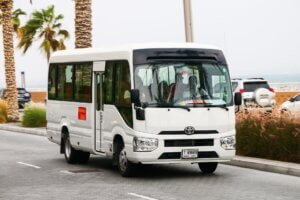
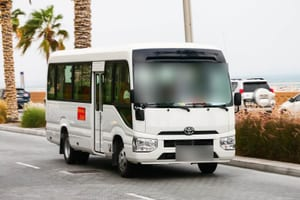
Give the staff transport page a real hero
The theme's inner banner carried a label and a heading and nothing else, so
someone arriving from a search for "staff transport dubai" spent the whole
first screen on the words "Services / For Staff": no H1, no proof, nothing to
act on. The same two words then appeared again immediately below it, with the
real H1 underneath those.

The hero now does the work: one H1, a subline, three proof points and both
contact actions, with the Coaster photo beside them. It stays dark because
#masthead is absolutely positioned over whatever renders first and its links
are white, so a light hero here would hide the navigation.

Measured against the brief on the built pages: at 390x844 the H1 ends at 223px
and the two buttons at 494px and 552px; at 1440x900 the H1 ends at 326px and
both buttons at 600px. The photograph follows the actions on mobile rather
than pushing them down.

The photo also moved out of the intro row and into the hero, which left the
intro full width, and the duplicate "Services" and "For Staff" headings are
gone. The old H1 is now the section's h2, so the page has exactly one H1.

Blurring the plate on this vehicle had missed two sizes: the 768x512 and
300x200 derivatives still showed it in full, and 768 is the one phones load.
Both are regenerated from the 1600x1067 original, which already carries the
cover and shares their aspect ratio.

Titles, meta descriptions, canonicals and JSON-LD are untouched, the buttons
[…]

diff --git a/app/src/pages/SvcStaffTransportInDubai.jsx b/app/src/pages/SvcStaffTransportInDubai.jsx
@@ -14,16 +14,33 @@ export default function SvcStaffTransportInDubai() {
   return (
     <>
       <Seo {...seo["/services/staff-transport-in-dubai/"]} />
-      <section className="banner_home banner_inner banner_inner_services" style={{ backgroundImage: "url('/wp-content/uploads/2025/10/banner_bg.webp')" }}>
-      <div className="banner_shadow"></div>
-      <div className="container h-100">
-      <div className="row h-100 justify-content-center">
-      <div className="col-xl-6 my-auto">
-      <div className="content_banner text-center">
-      <span className="h1_head">Services</span>
-      <h2>For Staff</h2>
+      <section className="svc_hero" style={{ backgroundImage: "url('/wp-content/uploads/2025/10/banner_bg.webp')" }}>
+      <div className="container">
+      <div className="svc_hero__grid">
+
+      <div className="svc_hero__copy">
+      <nav className="svc_hero__crumb" aria-label="Breadcrumb">
+      <Link to="/services/">Services</Link>
+      <span aria-hidden="true">/</span>
+      <span>Staff Transport</span>
+      </nav>
+      <h1>Staff Transport in Dubai, On Time for Every Shift</h1>
+      <p className="svc_hero__sub">Fixed daily routes for offices, labour camps, hotels and warehouses. Licensed drivers, vehicles sized to your headcount, 24/7 across all 7 emirates.</p>
+      <ul className="svc_hero__points">
+      <li>RTA-licensed drivers</li>
+      <li>Routes planned around your shift times</li>
+      <li>One contact for the whole contract</li>
+      </ul>
+      <div className="svc_hero__actions">
+      <a href={waLink("/services/staff-transport-in-dubai/")} className="btn btn-primary" target="_blank" rel="noopener">Get a Quote on WhatsApp</a>
+      <a href="tel:+971555252397" className="btn btn-secondary">Call +971 55 525 2397</a>
       </div>
       </div>
+
+      <div className="svc_hero__media">
+      <img src="/wp-content/uploads/2025/10/staff-transport-op-1024x683.jpg" width="1024" height="683" alt="Toyota Coaster passenger bus used for staff transport in Dubai" fetchPriority="high" decoding="async" srcSet="/wp-content/uploads/2025/10/staff-transport-op-768x512.jpg 768w, /wp-content/uploads/2025/10/staff-transport-op-1024x683.jpg 1024w, /wp-content/uploads/2025/10/staff-transport-op-1536x1024.jpg 1536w" sizes="(max-width: 991px) 100vw, 44vw" />
+      </div>
+
       </div>
       </div>
       </section>
@@ -33,16 +50,9 @@ export default function SvcStaffTransportInDubai() {
       <div className="container">
       <div className="row">
 
-      <div className="col-lg-6">
-      <div className="post-thumbnail service_thumbnail">
-      <img width="640" height="427" src="/wp-content/uploads/2025/10/staff-transport-op-1024x683.jpg" className="attachment-large size-large wp-post-image" alt="Toyota Coaster passenger bus used for professional transport services in Dubai by Alsinan Transport" decoding="async" srcSet="/wp-content/uploads/2025/10/staff-transport-op-1024x683.jpg 1024w, /wp-content/uploads/2025/10/staff-transport-op-300x200.jpg 300w, /wp-content/uploads/2025/10/staff-transport-op-768x512.jpg 768w, /wp-content/uploads/2025/10/staff-transport-op-1536x1024.jpg 1536w, /wp-content/uploads/2025/10/staff-transport-op.webp 1920w" sizes="(max-width: 640px) 100vw, 640px" />          </div>
-      </div>
-
-      <div className="col-lg-6 my-auto">
+      <div className="col-lg-12">
       <div className="post-content service_content">
-      <h3>Services</h3>
-      <h2>For Staff</h2>
-      <h1 className="wp-block-heading"><strong><strong><strong>Dependable Staff Transport in Dubai</strong></strong></strong></h1>
+      <h2 className="wp-block-heading"><strong>Dependable Staff Transport in Dubai</strong></h2>
       <p>Alsinan Transport provides staff transport, employee transport and corporate transport in Dubai on fixed daily routes, with licensed drivers and vehicles sized to your headcount. We operate 24/7 across all seven emirates.</p>
       <p>Getting your employees to work on time should not feel like a daily struggle. At Alsinan Transport, we organise staff transport in Dubai in a way that keeps it safe, reliable and easy to manage. Whether it is daily office commuting, regular inter office movement, team travel for training sessions, corporate events or planned outings, we build transport plans that match how your company actually operates.</p>
       <p>If you need flexible van rental in Dubai for a small team or a structured corporate transport in Dubai for multiple departments, our focus remains simple. Your employees travel comfortably, reach safely and arrive on time. When commuting is managed properly, staff can focus on what truly matters, which is their work.</p>

diff --git a/app/public/assets/css/spa-fixes.css b/app/public/assets/css/spa-fixes.css
@@ -1370,3 +1370,206 @@ section.banner_home.banner_inner.banner_contact {
 .about_panel--no-media .about_panel__facts > div > span:empty {
   display: none;
 }
+
+/* ---------------------------------------------------------------------------
+   Service page hero, first used on /services/staff-transport-in-dubai/.
+
+   The theme's inner banner carries a label and a heading and nothing else, so
+   a visitor arriving from a search for "staff transport dubai" saw the words
+   "Services / For Staff" on the whole first screen: no H1, no proof, nothing
+   to act on. The same two words then appeared again immediately below, and the
+   real H1 sat under those.
+
+   This replaces it with a hero that does the work: one H1, a subline, three
+   proof points and both contact actions, with the vehicle photo beside them.
+
+   It stays dark. #masthead is position:absolute over whatever renders first
+   and its links are white, so a light hero here would hide the navigation.
+   --------------------------------------------------------------------------- */
+.svc_hero {
+  position: relative;
+  background-color: #141417;
+  background-position: center;
+  background-size: cover;
+  background-repeat: no-repeat;
+  padding: 186px 0 66px;
+  overflow: hidden;
+}
+
+/* the banner photograph is busy; the copy needs a floor to sit on */
+.svc_hero::before {
+  content: "";
+  position: absolute;
+  inset: 0;
+  background: linear-gradient(
+    90deg,
+    rgba(14, 14, 17, 0.94) 0%,
+    rgba(14, 14, 17, 0.84) 48%,
+    rgba(14, 14, 17, 0.62) 100%
+  );
+}
+
+.svc_hero > .container {
+  position: relative;
+  z-index: 1;
+}
+
+.svc_hero__grid {
+  display: grid;
+  grid-template-columns: 1fr 0.84fr;
+  gap: 48px;
+  align-items: center;
+}
+
+.svc_hero__crumb {
+  display: flex;
+  align-items: center;
+  gap: 8px;
+  margin-bottom: 15px;
+  font-size: 13px;
+  letter-spacing: 0.05em;
+  text-transform: uppercase;
+  color: rgba(255, 255, 255, 0.58);
+}
+
+.svc_hero__crumb a {
+  color: rgba(255, 255, 255, 0.58);
+  text-decoration: none;
+}
+
+.svc_hero__crumb a:hover,
+.svc_hero__crumb a:focus-visible {
+  color: #fff;
+}
+
+.svc_hero h1 {
+  margin: 0 0 15px;
+  color: #fff;
+  font-size: clamp(29px, 3.6vw, 46px);
+  line-height: 1.15;
+  font-weight: 700;
+}
+
+.svc_hero__sub {
+  margin: 0 0 22px;
+  max-width: 34rem;
+  color: rgba(255, 255, 255, 0.82);
+  font-size: 16px;
+  line-height: 1.62;
+}
+
+.svc_hero__points {
+  list-style: none;
+  margin: 0 0 28px;
+  padding: 0;
+  display: flex;
+  flex-direction: column;
+  gap: 10px;
+}
+
+.svc_hero__points li {
+  position: relative;
+  padding-left: 31px;
+  color: #fff;
+  font-size: 15px;
+  line-height: 1.4;
+  font-weight: 500;
+}
+
+/* a drawn tick, so the strip costs no extra request */
+.svc_hero__points li::before {
+  content: "";
+  position: absolute;
+  left: 0;
+  top: 1px;
+  width: 20px;
+  height: 20px;
+  border-radius: 50%;
+  background: #DD0A1B;
+}
+
+.svc_hero__points li::after {
+  content: "";
+  position: absolute;
+  left: 6px;
+  top: 7px;
+  width: 8px;
+  height: 4px;
+  border-left: 2px solid #fff;
+  border-bottom: 2px solid #fff;
+  transform: rotate(-45deg);
+}
+
+.svc_hero__actions {
+  display: flex;
+  flex-wrap: wrap;
+  gap: 12px;
+}
+
+/* the theme paints .btn-secondary #1b1b1b, which on this hero is a hole */
+.svc_hero__actions .btn-secondary {
+  background: transparent;
+  border: 1px solid rgba(255, 255, 255, 0.55);
+  color: #fff;
+}
+
+.svc_hero__actions .btn-secondary:hover,
+.svc_hero__actions .btn-secondary:focus-visible {
+  background: #fff;
+  border-color: #fff;
+  color: #1B1B1B;
+}
+
+.svc_hero__media img {
+  display: block;
+  width: 100%;
+  height: auto;
+  border-radius: 18px;
+  box-shadow: 0 26px 60px rgba(0, 0, 0, 0.45);
+}
+
+@media screen and (max-width: 991px) {
+  .svc_hero {
+    padding: 150px 0 46px;
+  }
+
+  .svc_hero__grid {
+    grid-template-columns: 1fr;
+    gap: 30px;
+  }
+
+  /* the H1 and both buttons have to clear a 390x844 first screen, so the
+     photograph follows the actions rather than pushing them down */
+  .svc_hero__media {
+    order: 2;
+  }
+}
+
+@media screen and (max-width: 575px) {
+  .svc_hero {
+    padding: 122px 0 38px;
+  }
+
+  .svc_hero__sub {
+    font-size: 15px;
+    margin-bottom: 18px;
+  }
+
+  .svc_hero__points {
+    margin-bottom: 22px;
+  }
+
+  .svc_hero__actions {
+    flex-direction: column;
+    gap: 10px;
+  }
+
+  .svc_hero__actions .btn {
+    width: 100%;
+    text-align: center;
+  }
+
+  .svc_hero__media img {
+    border-radius: 14px;
+  }
+}

diff --git a/app/src/lib/whatsapp.js b/app/src/lib/whatsapp.js
@@ -22,7 +22,7 @@ const MESSAGES = {
   "/services/school-transport-in-dubai/":
     "Hi Alsinan, I am enquiring about school transport in Dubai. Could you share routes and pricing?",
   "/services/staff-transport-in-dubai/":
-    "Hi Alsinan, I am enquiring about staff transport in Dubai for our team. Could you share a quote?",
+    "Hi, I need staff transport in Dubai. Number of staff: __, pickup area: __, shift timings: __",
   "/services/labour-transport-in-dubai/":
     "Hi Alsinan, I am enquiring about daily labour transport in Dubai from accommodation to site.",
   "/services/bus-rental-dubai/":
